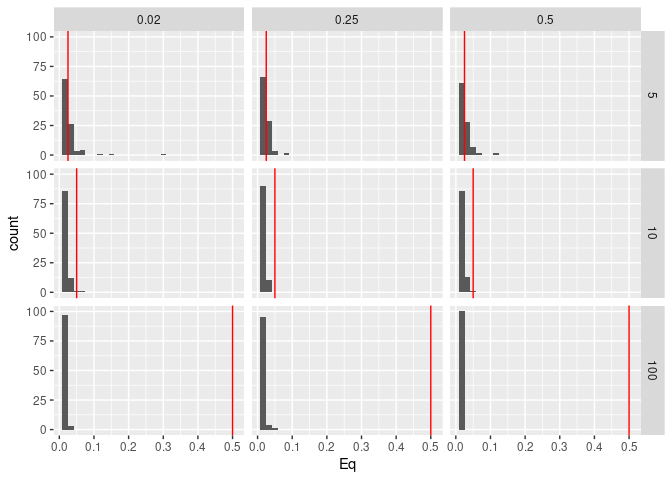
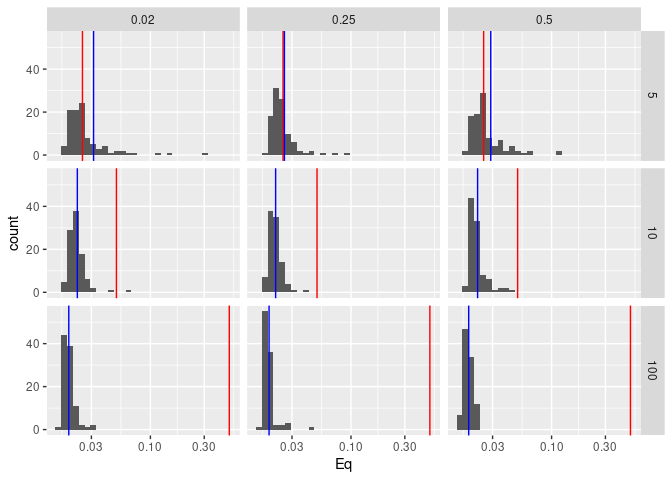
init Rproj

diff --git a/README.md b/README.md
@@ -17,7 +17,17 @@ Dec 5, 2023
 
 ![](README_files/figure-gfm/unnamed-chunk-2-1.png)<!-- -->
 
+We plot the histograms of the empirical means of q by values of s and
+R2y. The red line represents s/k. The blue line represents the mean of
+the empirical means
+
 ### Plot 2
+
+    ## Warning: The dot-dot notation (`..density..`) was deprecated in ggplot2 3.4.0.
+    ## ℹ Please use `after_stat(density)` instead.
+    ## This warning is displayed once every 8 hours.
+    ## Call `lifecycle::last_lifecycle_warnings()` to see where this warning was
+    ## generated.
 
     ## `stat_bin()` using `bins = 30`. Pick better value with `binwidth`.
 
@@ -93,8 +103,8 @@ burning         =default_burning
                           burning = burning,
                           x = x)
   #question 3. plots 
-    plot_q_1=plot_q_1_f(q,tt,burning)
-    plot_q_2=plot_q_2_f(q,tt)
+    plot_q_1=plot_q_1_f(q,k,burning)
+    plot_q_2=plot_q_2_f(q,k,burning)
 ```
 
 ### R/functions.R
@@ -476,28 +486,34 @@ Gibbs_q<-function(x,
 
 
 
-plot_q_1_f<-function(q,tt=default_tt,burning){
+plot_q_1_f<-function(q,k=default_k,burning){
   require(ggplot2)
   q|>
     dplyr::group_by(s,r_y,i)|>
     dplyr::filter(dplyr::row_number()>burning)|>
     dplyr::summarise(Eq=mean(q,na.rm=TRUE))|>
     dplyr::ungroup()|>
+    dplyr::group_by(s,r_y)|>
+    dplyr::mutate(meanEq=mean(Eq,na.rm=TRUE))|>
+    dplyr::ungroup()|>
     ggplot(mapping = aes(x=Eq))+
     geom_histogram()+
+#    geom_histogram(aes(y=..density..),alpha=.5)+
+#    geom_density()+
     facet_grid(s~r_y)+
-    geom_vline(mapping = aes(xintercept=s/tt),color="red")
-  
+    geom_vline(mapping = aes(xintercept=s/k),color="red")+
+    geom_vline(mapping = aes(xintercept=meanEq),color="blue")
 }
 
-plot_q_2_f<-function(q,tt=default_tt,burning){
+plot_q_2_f<-function(q,k=default_k,burning){
   require(ggplot2)
   q|>
     dplyr::filter(s==5,r_y==.02,i==1,dplyr::row_number()>burning)|>
     dplyr::mutate(Eq=mean(q))|>
     ggplot(mapping = aes(x=q))+
-    geom_histogram()+
-    geom_vline(mapping = aes(xintercept=s/tt),color="red")+
+    geom_histogram(aes(y=..density..),color="black",alpha=.5)+
+    geom_density()+
+    geom_vline(mapping = aes(xintercept=s/k),color="red")+
     geom_vline(mapping = aes(xintercept=Eq),color="blue")
   
   
